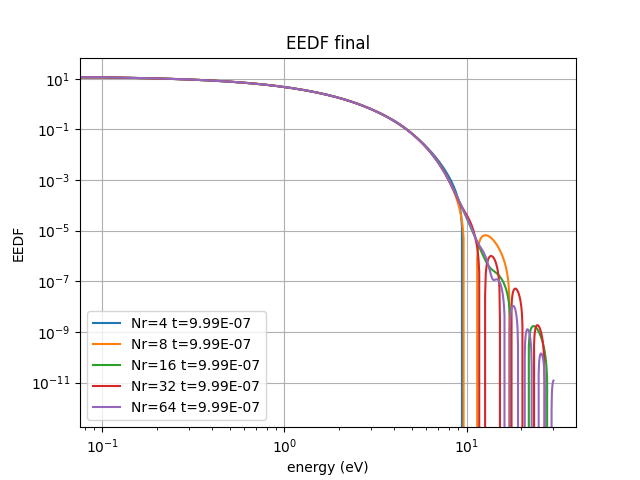
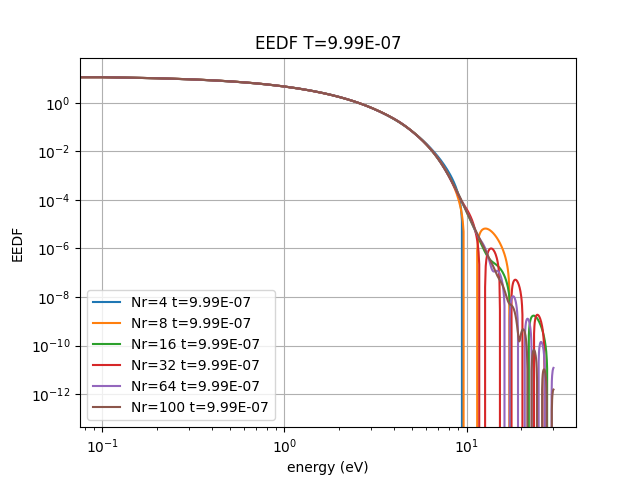
ahm final slide

diff --git a/Notes/ahm_dec_2021/talk.tex b/Notes/ahm_dec_2021/talk.tex
@@ -229,12 +229,10 @@
 	\end{frame}
 
 
-	
-	
 	\begin{frame}
-		\frametitle{Problem setup}
+		\frametitle{Experimental setup}
 		\begin{itemize}
-			\item Set $\vect{E}=0$
+			\item Set $\vect{E}=0$, $\rightarrow$ $\partial_t f = \sum_{a} C_a(f)$
 			\item Use \lxcat~ cross-section data %, with constant differential cross-section function ($N_\theta=1,N_\phi=1$)
 			\item Experiment with Maxwell vs. BSpline polynomials in radial direction. 
 			\item Initial condition $f(v,t=0) = M(v)$ with $T_e(0)=1ev$ %Initially start with Maxwellian distribution, i.e., $f(v)= M(v)h(v)$, where $h(v)=1$, with 1eV temperature.
@@ -244,7 +242,7 @@
 				\item G2 : $e + Ar \rightarrow e + Ar^+ + e$ with G0
 			\end{itemize}
 			\item Use RK45 with adaptive time step size control with specified tolerance, $\mathcal{O}(\Delta t ^4)$
-			\item Convergence of $f(v) = M(v) h(v)$,  $\rightarrow$ $\norm{f_{m}- f_{n}} \leq \norm{M(v)} \norm{h_m-h_n}$
+			\item Convergence of $f(v) = M(v) h(v)$,  $\rightarrow$ $\norm{f_{m}- f_{n}} \leq \norm{M(v)} \norm{h_m-h_n}$ with increasing $N_r$ polynomials
 			\item Temperature $T \sim \int_{R^3} v^2 f(v) dv$
 			\item EEDF, for given energy $\epsilon$, $\int_{S^2} \frac{1}{n_e} f(\sqrt{\frac{2\epsilon}{m}},\theta,\phi) d\omega$
 		\end{itemize}
@@ -254,12 +252,15 @@
 		\frametitle{G0 : $e + Ar \rightarrow e + Ar$ (Maxwell polynomials)}
 		\textbullet~ Uses \lxcat~ cross-section data.
 		\begin{figure}
-			\only<+>
-			{	
 				\centering
 				\includegraphics[width=0.5\textwidth]{g0_tcs.png}
-			}
+		\end{figure}
+	\end{frame}
 
+	\begin{frame}
+		\frametitle{G0 : $e + Ar \rightarrow e + Ar$ (Maxwell polynomials)}
+		\textbullet~ Uses \lxcat~ cross-section data, increase $Nr$ with $N_\theta=1,N_\phi=1$
+		\begin{figure}
 			\only<+>
 			{
 				\includegraphics[width=0.48\textwidth]{g0_mw_temp.png}
@@ -269,6 +270,16 @@
 			{
 				\includegraphics[width=0.48\textwidth]{g0_mw_eedf_final.png}
 				\includegraphics[width=0.48\textwidth]{g0_mw_eedf_final_error.png}
+			}
+			\only<+>
+			{
+				\includegraphics[width=0.48\textwidth]{g0_mw_nr16_eedf.png}
+				\includegraphics[width=0.48\textwidth]{g0_mw_nr32_eedf.png}
+			}
+			\only<+>
+			{
+				\includegraphics[width=0.48\textwidth]{g0_mw_nr64_eedf.png}
+				\includegraphics[width=0.48\textwidth]{g0_mw_nr100_eedf.png}
 			}
 		\end{figure}
 	\end{frame}
@@ -280,14 +291,15 @@
 				\begin{itemize}
 					\item Uses \lxcat~ cross-section data. 
 					\item Convergence of $f(v) = M(v) h(v)$,  $\rightarrow$ $\norm{f_{m}- f_{n}} \leq \norm{M(v)} \norm{h_m-h_n}$
+					\item tail norm = $\norm{h[N_r/2,:]} / \norm{h}$
 					\item Tails of the correction term should decay with increasing $N_r$ polynomials.
 					\item Tails do converge with a low rate, Reason ?% \textcolor{orange}{We don't know yet.}
 					\begin{itemize}
-						\item May be we need more $N_r$ (Computation of Maxwell poly becomes unstable)
-						\item Experimental cross-section data is not smooth. 
-						\item Quadrature issues.
+						\item We need more $N_r$ (Computation of Maxwell poly becomes unstable)
+						\item Experimental cross-section data. 
+						%\item Stability of the basis. 
 					\end{itemize}
-					\item Quantities of interests temperature, mass, seem to converge nicely. 
+					\item Quantities of interest (i.e., temperature, EEDF, mass) seem to converge nicely. 
 				\end{itemize}
 			\end{column}
 			\begin{column}{0.48\textwidth}
@@ -298,30 +310,6 @@
 			\end{column}
 		\end{columns}
 	\end{frame}
-
-	\begin{frame}
-		\frametitle{Smoothed \lxcat~ dat for G0 with Maxwell polynomials}
-		\textbullet~ Uses Gaussian filter with $\sigma=0.5$, 
-		\begin{figure}
-			\only<+>
-			{	
-				\includegraphics[width=0.48\textwidth]{g0_tcs_sigma_0.5.png}
-				\includegraphics[width=0.48\textwidth]{g0_mw_smoothed_tails.png}
-			}
-
-			\only<+>
-			{
-				\includegraphics[width=0.48\textwidth]{g0_mw_smoothed_temp.png}
-				\includegraphics[width=0.48\textwidth]{g0_mw_smoothed_temp_error.png}
-			}
-			\only<+>
-			{
-				\includegraphics[width=0.48\textwidth]{g0_mw_smoothed_eedf_final.png}
-				\includegraphics[width=0.48\textwidth]{g0_mw_smoothed_eedf_final_error.png}
-			}
-		\end{figure}
-	\end{frame}
-
 
 	\begin{frame}
 		\frametitle{G0 convergence with constant cross-section}
@@ -389,10 +377,60 @@
 			\only<+>
 			{
 				\includegraphics[width=0.48\textwidth]{g02_mw_mass.png}
+				\includegraphics[width=0.48\textwidth]{g02_mw_tails.png}
 			}
 		\end{figure}
 	\end{frame}
 
+
+	\begin{frame}{Current progress}
+		\begin{itemize}
+			\item Understand the Boltzmann collision operator with Jacobian for the collisions and how that relate to the weak form. 
+			\item Derivation and numerically computation of Maxwell polynomials, associated quadrature. 
+			\item \texttt{Python} based code for solving collission operator. 
+			\item Integration with \texttt{LXCAT} cross-section data, for elastic, ionization and excitation reactions. 
+			\item Supports Maxwell and BSplines for radial direction, other radial polynomials can be added if needed. 
+			\item Tensoized version of the collision operator, (enables efficient GPU computations i.e., $\texttt{numpy} \rightarrow \texttt{cupy}$)
+			\item Re-projection with efficient recomputation of the collision operator. 
+		\end{itemize}
+	\end{frame}
+
+	\begin{frame}
+		\frametitle{Future work}
+		\begin{itemize}
+			%\item Maxwell polynomials with experimental cross-section data, low convergence rate. 
+			\item Dealing with smoothness issues, discontinuities in experimental cross section data. 
+			%\item Develop error metrics, when to perform re-projections, (only needed when operate in large temperature range.) , and numerical issues associated.
+			\item Work on velocity space advection term. 
+			\item Once, finalized,GPU implementation of the collision operator. 
+			\item Work on adding the spatial dimensions. 
+		\end{itemize}
+		\pause
+		\begin{center}
+			\Large Questions ? \\
+			\Large Thank You. 
+		\end{center}
+	\end{frame}
+
+	\begin{frame}
+		\frametitle{Computing collision operator}
+		\begin{itemize}
+			\item $S^{r\theta\phi\chi\gamma}_{r^\prime\theta^\prime \phi^\prime}$ : Scattering velocity tensor, for each $v=(r,\theta,\phi)$ and scattering solid angle $(\chi,\gamma)$ computes $(r^\prime,\theta^\prime,\phi^\prime)$ scattered or newly created particle velocity
+			\item $P^{r\theta\phi\chi\gamma}_{p}$ - radial polynomial evaluated at differed velocity for given incident particle ($r,\theta,\phi,\chi,\gamma$)
+			\item $Y^{r\theta\phi\chi\gamma}_{qs}$ - $qs$ spherical harmonic mode evaluated differed particle direction for a given incident particle ($r,\theta,\phi,\chi,\gamma$)
+			\item $M^{r\theta\phi\chi\gamma}$ - Maxwellian times $v_r$ evaluated for the differed particle for a given incident particle ($r,\theta,\phi,\chi,\gamma$)
+			\item $\sigma^{r\theta\phi\chi\gamma}$ - differential cross section broadcasted on scattering cross section angles. 
+			\item $P^{r\theta\phi}_{k}$ - radial polynomials evaluated at radial quadrature points. 
+			\item $Y_{lm}^{r\theta\phi}$ - spherical harmonics evaluated angular quadrature points. 
+		\end{itemize}
+		Re-computations are only needed if the quadrature grid is changed. Then we can write, 
+		\tiny
+		{
+			\begin{align*}
+				{L}_{k,l,m}^{p,q,s} &=P^{r\theta\phi}_{k} Y_{lm}^{r\theta\phi} \left( M^{r\theta\phi\chi\gamma} \left(P^{r\theta\phi\chi\gamma}_{p} (v^\prime_r)	Y^{r\theta\phi\chi\gamma}_{qs} (v^\prime_\theta,v^{\prime}_\phi) - P^{r\theta\phi\chi\gamma}_{p} (v_r)	Y^{r\theta\phi\chi\gamma}_{qs} (v_\theta,v_\phi) \right) W_\chi W_\gamma \right) W_\phi W_\theta W_r
+			\end{align*}
+		}%
+	\end{frame}
 
 	\begin{frame}
 		\frametitle{Projection operator}
@@ -424,52 +462,50 @@
 			\end{column}
 		\end{columns}
 	\end{frame}
-	
-	\begin{frame}{Current progress}
-		\begin{itemize}
-			\item Understand the Boltzmann collision operator with Jacobian for the collisions and how that relate to the weak form. 
-			\item Derivation and numerically computation of Maxwell polynomials, associated quadrature. 
-			\item \texttt{Python} based code for solving collission operator. 
-			\item Integration with \texttt{LXCAT} cross-section data, for elastic, ionization and excitation reactions. 
-			\item Supports Maxwell and BSplines for radial direction, other radial polynomials can be added if needed. 
-			\item Tensoized version of the collision operator, (enables efficient GPU computations i.e., $\texttt{numpy} \rightarrow \texttt{cupy}$)
-			\item Re-projection with efficient recomputation of the collision operator. 
-		\end{itemize}
-	\end{frame}
 
 	\begin{frame}
-		\frametitle{Conclusions and future work}
-		\begin{itemize}
-			\item Maxwell polynomials with experimental cross-section data, low convergence rate. 
-			\item Dealing with smoothness issues, discontinuities in experimental cross section data. 
-			\item Develop error metrics, when to perform re-projections, (only needed when operate in large temperature range.) , and numerical issues associated.
-			\item Move on to single GPU implementation.
-		\end{itemize}
-		\pause
-		\begin{center}
-			\Large Questions ? \\
-			\Large Thank You. 
-		\end{center}
+		\frametitle{Smoothed \lxcat~ dat for G0 with Maxwell polynomials}
+		\textbullet~ Uses Gaussian filter
+		\only<+>{
+		\begin{table}
+			\begin{tabular}{||c|c|c||}
+				\hline
+				$N_r$ & \lxcat & \lxcat~+ smoothing\\
+				\hline
+				4 & 5.47E-02 & 5.50E-02\\
+				8 & 1.17E-02 & 1.19E-02\\
+				16 & 4.17E-03 & 4.27E-03\\
+				32 & 2.47E-03 & 2.08E-03\\
+				64 & 2.27E-03 & 1.49E-03 \\
+				100 & 7.02E-04 & 4.51E-04 \\
+				\hline
+			\end{tabular}
+			\caption{spectral norms at $T=1e-6$}
+		\end{table}
+		}
+		\begin{figure}
+			\only<+>
+			{	\centering
+				\includegraphics[width=0.48\textwidth]{g0_tcs_sigma_0.5.png}
+				
+			}
+			\only<+>
+			{	
+				\includegraphics[width=0.48\textwidth]{g0_mw_tails.png}
+				\includegraphics[width=0.48\textwidth]{g0_mw_smoothed_tails.png}
+			}
+			\only<+>
+			{
+				\includegraphics[width=0.48\textwidth]{g0_mw_smoothed_temp.png}
+				\includegraphics[width=0.48\textwidth]{g0_mw_smoothed_temp_error.png}
+			}
+			\only<+>
+			{
+				\includegraphics[width=0.48\textwidth]{g0_mw_smoothed_eedf_final.png}
+				\includegraphics[width=0.48\textwidth]{g0_mw_smoothed_eedf_final_error.png}
+			}
+		\end{figure}
 	\end{frame}
 
-	\begin{frame}
-		\frametitle{Computing collision operator}
-		\begin{itemize}
-			\item $S^{r\theta\phi\chi\gamma}_{r^\prime\theta^\prime \phi^\prime}$ : Scattering velocity tensor, for each $v=(r,\theta,\phi)$ and scattering solid angle $(\chi,\gamma)$ computes $(r^\prime,\theta^\prime,\phi^\prime)$ scattered or newly created particle velocity
-			\item $P^{r\theta\phi\chi\gamma}_{p}$ - radial polynomial evaluated at differed velocity for given incident particle ($r,\theta,\phi,\chi,\gamma$)
-			\item $Y^{r\theta\phi\chi\gamma}_{qs}$ - $qs$ spherical harmonic mode evaluated differed particle direction for a given incident particle ($r,\theta,\phi,\chi,\gamma$)
-			\item $M^{r\theta\phi\chi\gamma}$ - Maxwellian times $v_r$ evaluated for the differed particle for a given incident particle ($r,\theta,\phi,\chi,\gamma$)
-			\item $\sigma^{r\theta\phi\chi\gamma}$ - differential cross section broadcasted on scattering cross section angles. 
-			\item $P^{r\theta\phi}_{k}$ - radial polynomials evaluated at radial quadrature points. 
-			\item $Y_{lm}^{r\theta\phi}$ - spherical harmonics evaluated angular quadrature points. 
-		\end{itemize}
-		Re-computations are only needed if the quadrature grid is changed. Then we can write, 
-		\tiny
-		{
-			\begin{align*}
-				{L}_{k,l,m}^{p,q,s} &=P^{r\theta\phi}_{k} Y_{lm}^{r\theta\phi} \left( M^{r\theta\phi\chi\gamma} \left(P^{r\theta\phi\chi\gamma}_{p} (v^\prime_r)	Y^{r\theta\phi\chi\gamma}_{qs} (v^\prime_\theta,v^{\prime}_\phi) - P^{r\theta\phi\chi\gamma}_{p} (v_r)	Y^{r\theta\phi\chi\gamma}_{qs} (v_\theta,v_\phi) \right) W_\chi W_\gamma \right) W_\phi W_\theta W_r
-			\end{align*}
-		}%
-	\end{frame}
 
 \end{document}
